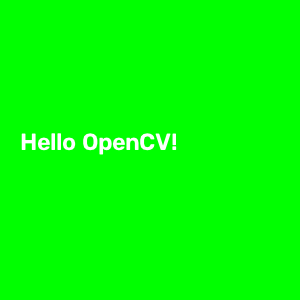
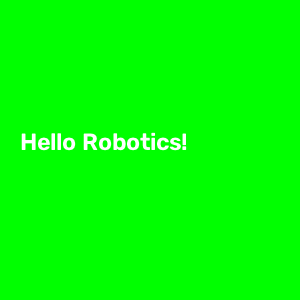
Update text to Hello Robotics

Changed region(s): [[0.27, 0.42, 0.63, 0.51]]

diff --git a/opencv-conda/main.py b/opencv-conda/main.py
@@ -8,7 +8,7 @@ img[:] = (0, 255, 0)
 # 在图像上写入文字
 cv2.putText(
     img,
-    "Hello OpenCV!",
+    "Hello Robotics!",
     (20, 150),
     cv2.FONT_HERSHEY_SIMPLEX,
     0.8,

diff --git a/opencv-uv/main.py b/opencv-uv/main.py
@@ -6,7 +6,7 @@ img[:] = (0, 255, 0)
 
 cv2.putText(
     img,
-    "Hello OpenCV!",
+    "Hello Robotics!",
     (20, 150),
     cv2.FONT_HERSHEY_SIMPLEX,
     0.8,
